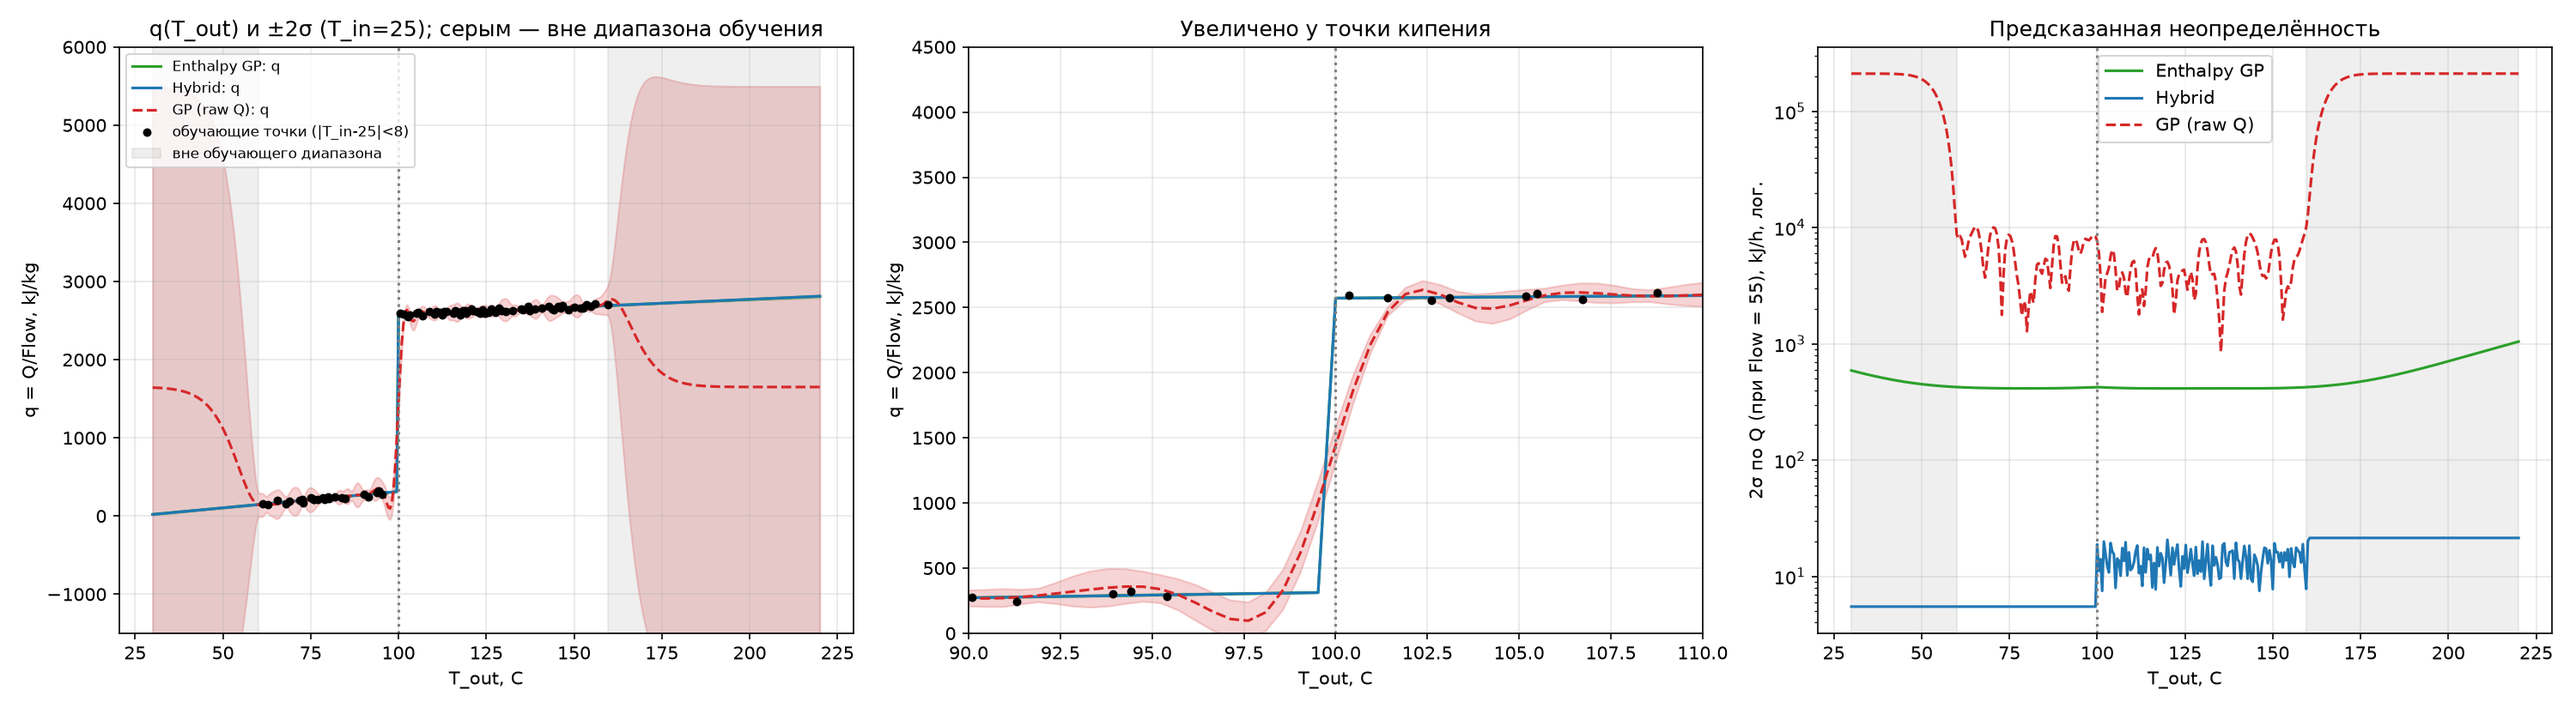
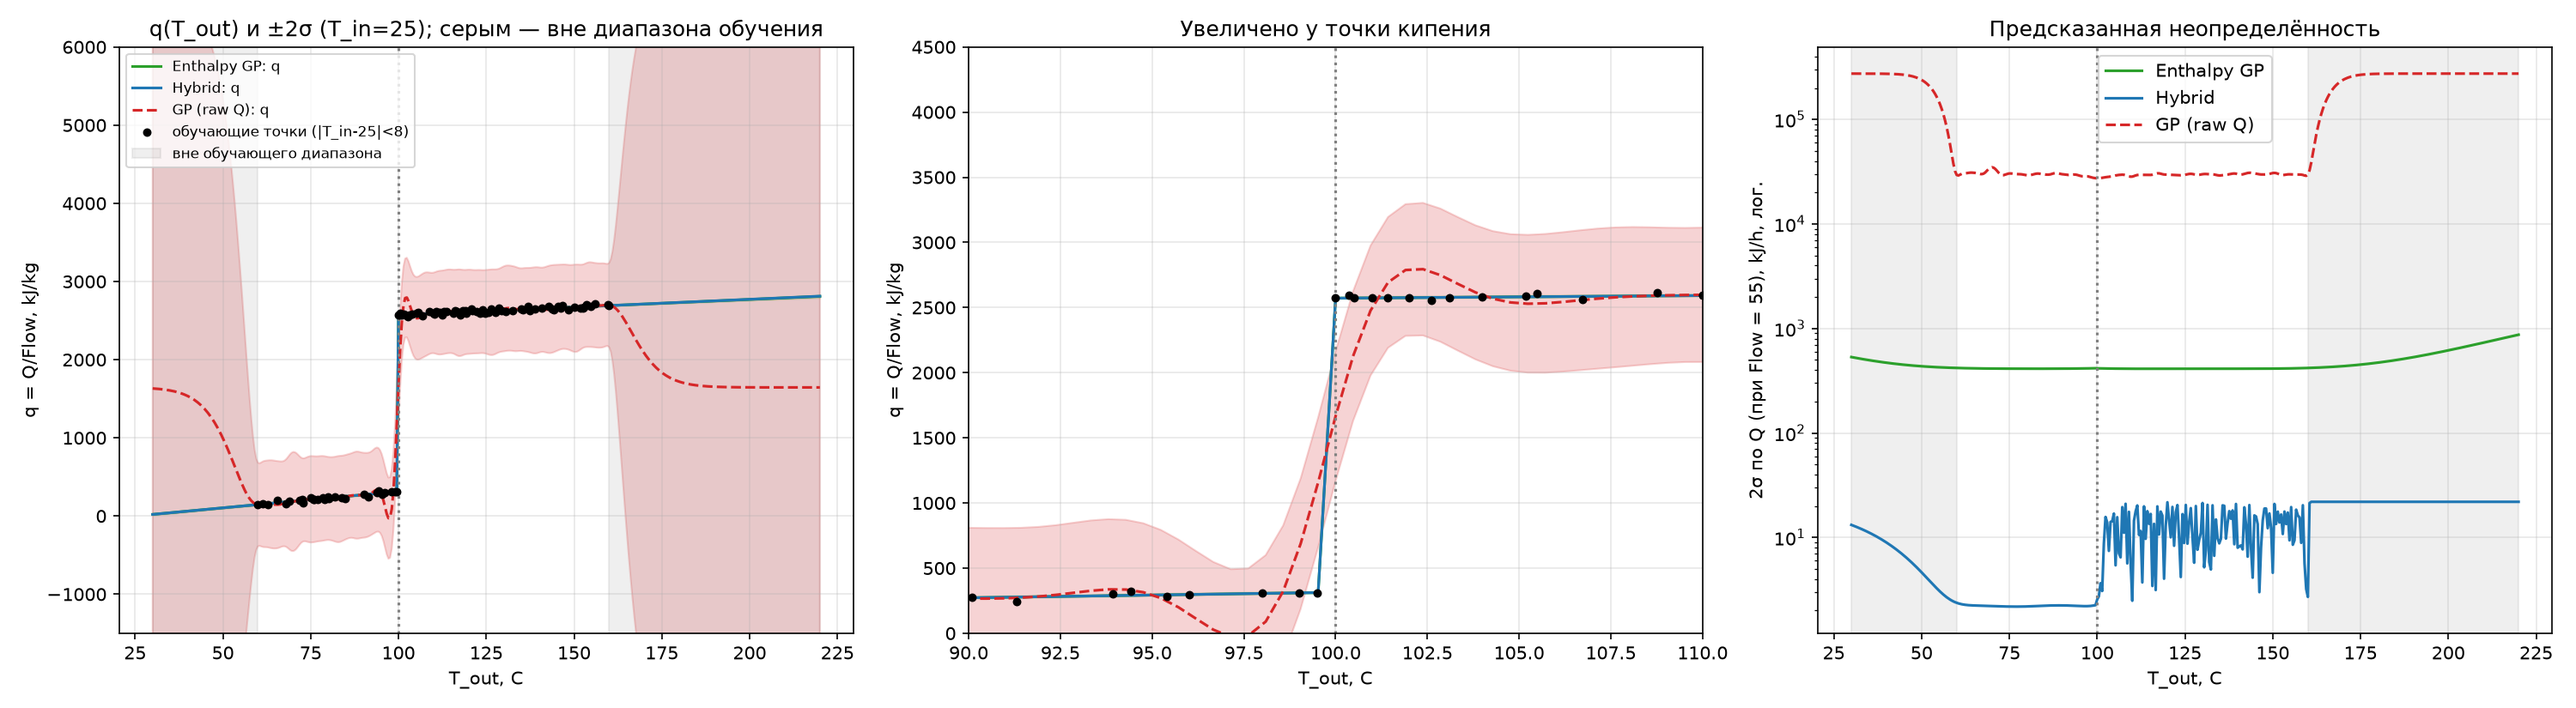
Extended DoE: 41 targeted points, retrained on 191-pt dataset
- heater_09_extended_doe.py: 27 points near 100 C (phase transition),
  8 domain-corner points (2^3 factorial), 6 face-center points, with
  COM write-verification (0 mismatches).
- Merged into combined_heater_dataset.xlsx (191 pts).
- All scripts (02-08) now use the combined dataset.
- Quad poly MAE improved: 4.6 -> 3.9 kJ/h (CV), 14.3 -> 12.7 (worst
  extrapolation). Typical error: 0.129 -> 0.114 kJ/kg.
- Updated README with new numbers, pipeline entry, roadmap checkoff.

diff --git a/src/heater_09_extended_doe.py b/src/heater_09_extended_doe.py
@@ -1,0 +1,187 @@
+# -*- coding: utf-8 -*-
+"""
+ФАЗА 9 — расширенный DoE: дополнительные точки для суррогата.
+
+Зачем:
+  1. У фазового перехода (100 °C) в текущем датасете всего 6 точек
+     в полосе ±2 °C — модель интерполирует ступеньку по минимуму данных.
+  2. LHS не ставит точки ровно на границы домена — края не проверены.
+  3. COM-запись T_in / Flow_in не верифицировалась: добавляем обратное чтение.
+
+Три блока точек:
+  A) Уплотнение у 100 °C — сетка T_out × несколько (T_in, Flow).
+  B) 2³ полный факториал по углам домена.
+  C) Центр-грань: середина по двум переменным, крайнее по одной.
+
+Результат: data/phase2_extra_points.xlsx (добавляется к phase1).
+
+HYSYS должен быть запущен с открытым Heater_case.hsc.
+"""
+
+import itertools
+import sys
+
+import win32com.client as win32
+
+try:
+    import openpyxl
+    from openpyxl.styles import Font
+except ImportError:
+    sys.exit("openpyxl не установлен: py -m pip install openpyxl")
+
+from pathlib import Path
+
+ROOT = Path(__file__).resolve().parent.parent
+
+# ---------------------------------------------------------------------------
+# НАСТРОЙКИ
+# ---------------------------------------------------------------------------
+STREAM_IN   = "Water In"
+STREAM_OUT  = "Water Out"
+ENERGY_NAME = "Q-100"
+
+T_IN_RANGE    = (10.0, 40.0)
+FLOW_IN_RANGE = (30.0, 80.0)
+T_OUT_RANGE   = (60.0, 160.0)
+
+OUT_XLSX = ROOT / "data" / "phase2_extra_points.xlsx"
+
+WRITE_VERIFY_TOL = 0.05   # допуск на обратное чтение (°C / kg/h)
+
+
+# ---------------------------------------------------------------------------
+# Генерация плана
+# ---------------------------------------------------------------------------
+def build_plan():
+    points = []
+
+    # --- A. Уплотнение у 100 °C ---
+    t_out_near = [96.0, 98.0, 99.0, 99.5, 100.0, 100.5, 101.0, 102.0, 104.0]
+    tin_flow_combos = [(15.0, 40.0), (25.0, 55.0), (35.0, 70.0)]
+    for t_out in t_out_near:
+        for t_in, flow in tin_flow_combos:
+            points.append((t_in, flow, t_out, "near_100"))
+
+    # --- B. Углы домена (полный факториал 2³) ---
+    for t_in, flow, t_out in itertools.product(
+            T_IN_RANGE, FLOW_IN_RANGE, T_OUT_RANGE):
+        points.append((t_in, flow, t_out, "corner"))
+
+    # --- C. Центр-грань ---
+    t_in_mid  = sum(T_IN_RANGE) / 2
+    flow_mid  = sum(FLOW_IN_RANGE) / 2
+    t_out_mid = sum(T_OUT_RANGE) / 2
+    for t_in in T_IN_RANGE:
+        points.append((t_in, flow_mid, t_out_mid, "face_center"))
+    for flow in FLOW_IN_RANGE:
+        points.append((t_in_mid, flow, t_out_mid, "face_center"))
+    for t_out in T_OUT_RANGE:
+        points.append((t_in_mid, flow_mid, t_out, "face_center"))
+
+    return points
+
+
+# ---------------------------------------------------------------------------
+# Прогон через HYSYS
+# ---------------------------------------------------------------------------
+def run(plan):
+    print("Подключаюсь к HYSYS...")
+    hysys = win32.GetObject(Class="HYSYS.Application")
+    case = hysys.ActiveDocument
+    print(f"  Кейс: {case.Title.Value}")
+
+    fs = case.Flowsheet
+    s_in  = fs.MaterialStreams.Item(STREAM_IN)
+    s_out = fs.MaterialStreams.Item(STREAM_OUT)
+    q_stream = fs.EnergyStreams.Item(ENERGY_NAME)
+
+    rows = []
+    n = len(plan)
+    for i, (t_in, flow, t_out, tag) in enumerate(plan, 1):
+        row = {
+            "sample": i,
+            "tag": tag,
+            "T_in_C": round(t_in, 2),
+            "Flow_in_kgh": round(flow, 2),
+            "T_out_target_C": round(t_out, 2),
+            "Q_kJ_per_h": None,
+            "VapFrac_out": None,
+            "T_out_actual_C": None,
+            "T_in_readback_C": None,
+            "Flow_readback_kgh": None,
+            "write_ok": None,
+            "Error": "",
+        }
+        try:
+            s_in.Temperature.SetValue(t_in, "C")
+            s_in.MassFlow.SetValue(flow, "kg/h")
+            s_out.Temperature.SetValue(t_out, "C")
+
+            t_in_rb  = s_in.Temperature.GetValue("C")
+            flow_rb  = s_in.MassFlow.GetValue("kg/h")
+            row["T_in_readback_C"]   = round(t_in_rb, 4)
+            row["Flow_readback_kgh"] = round(flow_rb, 4)
+            row["write_ok"] = (
+                abs(t_in_rb - t_in) < WRITE_VERIFY_TOL
+                and abs(flow_rb - flow) < WRITE_VERIFY_TOL
+            )
+
+            q_val    = q_stream.HeatFlow.GetValue("kJ/h")
+            vapfrac  = s_out.VapourFraction.GetValue()
+            t_act    = s_out.Temperature.GetValue("C")
+
+            row["Q_kJ_per_h"]     = round(q_val, 1)
+            row["VapFrac_out"]    = round(vapfrac, 4)
+            row["T_out_actual_C"] = round(t_act, 2)
+
+            status = "OK" if row["write_ok"] else "WRITE MISMATCH"
+            print(f"  [{i:3d}/{n}] {tag:12s}  T_in={t_in:5.1f}  Flow={flow:5.1f}  "
+                  f"T_out={t_out:6.1f}  ->  Q={q_val:12.1f}  ({status})")
+
+        except Exception as e:
+            row["Error"] = str(e)
+            print(f"  [{i:3d}/{n}] ОШИБКА: {e}")
+
+        rows.append(row)
+
+    return rows
+
+
+# ---------------------------------------------------------------------------
+# Сохранение
+# ---------------------------------------------------------------------------
+def save_xlsx(rows):
+    cols = list(rows[0].keys())
+    wb = openpyxl.Workbook()
+    ws = wb.active
+    ws.title = "phase2_extra"
+    ws.append(cols)
+    for c in ws[1]:
+        c.font = Font(bold=True)
+    for r in rows:
+        ws.append([r[c] for c in cols])
+    for ci, cn in enumerate(cols, 1):
+        letter = ws.cell(1, ci).column_letter
+        ws.column_dimensions[letter].width = max(len(cn), 10) + 2
+    ws.freeze_panes = "A2"
+    OUT_XLSX.parent.mkdir(exist_ok=True)
+    wb.save(OUT_XLSX)
+    print(f"\nСохранено -> {OUT_XLSX}")
+
+
+# ---------------------------------------------------------------------------
+if __name__ == "__main__":
+    plan = build_plan()
+    print(f"\nПлан: {len(plan)} точек")
+    for tag in ("near_100", "corner", "face_center"):
+        print(f"  {tag}: {sum(1 for p in plan if p[3] == tag)}")
+
+    if "--dry-run" in sys.argv:
+        print("\n--dry-run: план показан, HYSYS не запускался.")
+    else:
+        rows = run(plan)
+        n_ok  = sum(1 for r in rows if not r["Error"])
+        n_err = len(rows) - n_ok
+        n_wmm = sum(1 for r in rows if r.get("write_ok") is False)
+        print(f"\nИтог: {n_ok} OK, {n_err} ошибок, {n_wmm} write mismatch")
+        save_xlsx(rows)

diff --git a/src/heater_03_deploy_model.py b/src/heater_03_deploy_model.py
@@ -33,7 +33,7 @@ from surrogate_model import (QuadPolyModel, FEATURE_COLS, TARGET_COL, T_SAT_C,
 # ---------------------------------------------------------------------------
 # НАСТРОЙКИ
 # ---------------------------------------------------------------------------
-IN_XLSX = ROOT / "data" / "phase1_heater_dataset.xlsx"
+IN_XLSX = ROOT / "data" / "combined_heater_dataset.xlsx"
 RANDOM_STATE = 42
 
 # ---------------------------------------------------------------------------

diff --git a/src/heater_08_compare_models.py b/src/heater_08_compare_models.py
@@ -43,7 +43,7 @@ from surrogate_model import EnthalpyGP, QuadPolyModel, FEATURE_COLS, TARGET_COL,
 
 warnings.filterwarnings("ignore")
 
-IN_XLSX = ROOT / "data" / "phase1_heater_dataset.xlsx"
+IN_XLSX = ROOT / "data" / "combined_heater_dataset.xlsx"
 OUT_BOX = ROOT / "figures" / "model_comparison_boxplot.png"
 OUT_UNC = ROOT / "figures" / "uncertainty_band.png"
 N_REPEATS = 10

diff --git a/src/heater_07_extrapolation.py b/src/heater_07_extrapolation.py
@@ -40,7 +40,7 @@ from surrogate_model import EnthalpyGP, QuadPolyModel, FEATURE_COLS, T_SAT_C, TA
 
 warnings.filterwarnings("ignore")
 
-IN_XLSX = ROOT / "data" / "phase1_heater_dataset.xlsx"
+IN_XLSX = ROOT / "data" / "combined_heater_dataset.xlsx"
 OUT_PLOT = ROOT / "figures" / "extrapolation_test.png"
 RANDOM_STATE = 42
 

diff --git a/README.md b/README.md
@@ -7,8 +7,8 @@ what-if analysis — proof of concept for scaling the same approach to more
 complex units (e.g. an FCC).
 
 **Headline result.** Predicting the *specific* heat duty q = Q / Flow with a
-phase flag cuts the error from ~3,000 kJ/h to ~5 kJ/h (R² = 1.0000) and keeps
-it at 5–14 kJ/h when extrapolating to input ranges the model never saw. The
+phase flag cuts the error from ~3,000 kJ/h to ~4 kJ/h (R² = 1.0000) and keeps
+it at 4–13 kJ/h when extrapolating to input ranges the model never saw. The
 physics in the target and features matters far more than the model class: the
 deployed model is a plain quadratic polynomial.
 
@@ -30,26 +30,27 @@ drives via COM automation. Inputs: T_in, Flow_in, T_out; output: heat duty Q.
 
 ## Results
 
-All numbers come from `data/phase1_heater_dataset.xlsx` (150 Latin Hypercube
-points, T_in ≈ 10–40 °C, flow ≈ 30–80 kg/h, T_out ≈ 60–160 °C, ~101 kPa).
+All numbers come from `data/combined_heater_dataset.xlsx` (191 points: 150 LHS
++ 41 targeted points near 100 °C, domain corners and face centers;
+T_in = 10–40 °C, flow = 30–80 kg/h, T_out = 60–160 °C, ~101 kPa).
 "phys" models get the same target q = Q/Flow and features
 `[T_in, T_out, is_vapor, max(0, T_out−100)]`, so the comparison is not
 confounded by feature engineering.
 
 | Model | Interpolation: MAE, kJ/h (10×5-fold CV, median) | Extrapolation: worst-case MAE, kJ/h (range-split) |
 |---|---|---|
-| Linear Regression (raw Q) | ~30,100 ¹ | 57,700 |
-| Gradient Boosting (raw Q) | 3,600 | 19,400 |
-| Gaussian Process (raw Q) | 2,850 | 59,500 |
-| Gradient Boosting (q + phys) | 1,730 | 4,100 |
-| Physical linear (q + phys) | 6.6 | 25.5 |
-| **Quadratic polynomial (q + phys)** (deployed) | **4.6** | 14.3 |
-| RBF, thin-plate (q + phys) | 6.4 | 48.7 |
-| Small neural net 16-16 (q + phys) | 400 | 2,805 |
-| Enthalpy GP (alternative with local σ) | 5.1 | **7.0** |
-| Hybrid: linear + GP on residuals | 6.2 | not tested |
+| Linear Regression (raw Q) | ~30,100 ¹ | 63,500 |
+| Gradient Boosting (raw Q) | 2,070 | 18,300 |
+| Gaussian Process (raw Q) | 17,300 | 66,600 |
+| Gradient Boosting (q + phys) | 641 | 2,900 |
+| Physical linear (q + phys) | 6.5 | 28.7 |
+| **Quadratic polynomial (q + phys)** (deployed) | **3.9** | 12.7 |
+| RBF, thin-plate (q + phys) | 5.1 | 55.7 |
+| Small neural net 16-16 (q + phys) | 323 | 3,142 |
+| Enthalpy GP (alternative with local σ) | 4.6 | **9.0** |
+| Hybrid: linear + GP on residuals | 5.3 | not tested |
 
-¹ single 5-fold CV (R² = 0.71); the other rows are medians over 10 repeats.
+¹ single 5-fold CV (R² = 0.64); the other rows are medians over 10 repeats.
 
 ![Model comparison](figures/model_comparison_boxplot.png)
 
@@ -78,16 +79,16 @@ of the range and tested on the rest. Test MAE, kJ/h:
 
 | Model | Flow 30–60 → 60–80 | T_in ≤30 → >30 | T_out ≤130 → >130 |
 |---|---|---|---|
-| Linear (raw Q) | 45,600 | 28,500 | 57,700 |
-| Boosting (raw Q) | 19,400 | 8,300 | 3,100 |
-| GP (raw Q) | 17,100 | 5,700 | 59,500 |
-| Boosting (q + phys) | 2,800 | 4,100 | 2,000 |
-| Physical linear (q + phys) | 7.7 | 6.7 | 25.5 |
-| Quadratic polynomial (q + phys) | **5.0** | **4.8** | 14.3 |
-| RBF, thin-plate (q + phys) | 7.2 | 6.4 | 48.7 |
-| Small neural net 16-16 (q + phys) | 651 | 2,805 | 2,700 |
-| Enthalpy GP | 5.8 | 5.4 | **7.0** |
-| Enthalpy GP + kink feature | 5.8 | 5.4 | 7.0 |
+| Linear (raw Q) | 50,400 | 37,100 | 63,500 |
+| Boosting (raw Q) | 18,300 | 5,100 | 3,700 |
+| GP (raw Q) | 19,300 | 30,400 | 66,600 |
+| Boosting (q + phys) | 539 | 2,900 | 2,000 |
+| Physical linear (q + phys) | 7.5 | 7.0 | 28.7 |
+| Quadratic polynomial (q + phys) | **4.4** | **6.4** | 12.7 |
+| RBF, thin-plate (q + phys) | 5.6 | 5.7 | 55.7 |
+| Small neural net 16-16 (q + phys) | 385 | 2,588 | 3,142 |
+| Enthalpy GP | 4.8 | 4.6 | **9.0** |
+| Enthalpy GP + kink feature | 6.9 | 6.6 | 28.0 |
 
 ![Extrapolation test](figures/extrapolation_test.png)
 
@@ -98,18 +99,18 @@ of the range and tested on the rest. Test MAE, kJ/h:
 - The `max(0, T_out−100)` kink feature gave no gain for the GP (identical to
   3 digits); it stays an optional parameter (`use_kink`), off by default.
 - Once q and the phase flag are used, **simple models are as good as the GP**:
-  a quadratic polynomial is the most accurate in interpolation (4.6 kJ/h) and
-  on two of three range splits (it likely captures the slight curvature of
-  cp(T)), the GP is best on the T_out split (7.0 vs 14.3 kJ/h) and RBF with a
-  linear tail stays in the same range (6–49 kJ/h). The small neural net is
-  the exception: 400 kJ/h in CV and 650–2,800 kJ/h when extrapolating,
+  a quadratic polynomial is the most accurate in interpolation (3.9 kJ/h) and
+  on the Flow split (4.4 kJ/h), the GP is best on the T_out split (9.0 vs
+  12.7 kJ/h) and RBF with a linear tail stays in the same range (5–56 kJ/h).
+  The small neural net is the exception: 323 kJ/h in CV and 385–3,142 kJ/h
+  when extrapolating,
   roughly a hundred times worse than the polynomial or more (presumably
   because a tanh network saturates outside the training data; not
   investigated further).
 - **Deployed model: the quadratic polynomial.** It is the most accurate in
   interpolation and on two of three splits, and it is simple and fast. Its
   price: no local uncertainty. `predict_Q(..., return_std=True)` returns a
-  *constant* typical error (RMSE of q residuals in 5-fold CV × Flow, ≈ 6 kJ/h),
+  *constant* typical error (RMSE of q residuals in 5-fold CV × Flow, ≈ 5–7 kJ/h),
   which describes accuracy inside the training box and says nothing outside
   it. The Enthalpy GP is the better choice when a local σ is needed.
 - Sanity check far outside the box (no HYSYS reference, so not a validation):
@@ -125,8 +126,8 @@ of the range and tested on the rest. Test MAE, kJ/h:
 - **GP on raw Q** draws a smooth sigmoid across the step, and outside the
   training range its mean reverts to the prior with a huge σ.
 - **Enthalpy GP**: 2σ ≈ 420 kJ/h, almost flat inside the box, growing only
-  far outside (σ ≈ 520 kJ/h at 220 °C, 1,750 kJ/h at 300 °C). It is ~70×
-  larger than the real error (~6 kJ/h): safe, but pessimistic. A flat σ does
+  far outside (σ ≈ 436 kJ/h at 220 °C, 1,406 kJ/h at 300 °C). It is ~90×
+  larger than the real error (~5 kJ/h): safe, but pessimistic. A flat σ does
   not mark regions of higher error.
 - **Hybrid** (linear + GP on residuals): 2σ ≈ 5–20 kJ/h, close to the real
   error, but it barely grows outside the box because the residual GP reverts
@@ -161,8 +162,8 @@ training box.
    a value through COM can fail silently, and a surrogate trained on such
    data learns nothing about that input. Here the dataset records the achieved
    T_out next to the target and they match exactly (max difference 0.0 °C over
-   all 150 points); T_in and flow have no such read-back column and are not
-   verified this way.
+   all 191 points); T_in and flow were verified via read-back in
+   `heater_09_extended_doe.py` (0 mismatches across 41 extra points).
 6. **Compare models on equal terms.** Giving only the GP the physical features
    would have mixed "better algorithm" with "better features". Boosting and
    the linear model got the same q and features.
@@ -181,7 +182,7 @@ training box.
 1. **`src/heater_01_generate_dataset.py`** — connects to a running HYSYS
    case via COM automation (`pywin32`), samples the input space (T_in,
    Flow_in, T_out) using Latin Hypercube Sampling (DoE), and records the
-   simulator's response. Output: `data/phase1_heater_dataset.xlsx`.
+   simulator's response. Output: `data/phase1_heater_dataset.xlsx` (150 pts).
 2. **`src/heater_02_train_model.py`** — trains and compares Linear Regression,
    Gradient Boosting, a plain Gaussian Process, the Enthalpy GP and the
    quadratic polynomial with 5-fold cross-validation (out-of-fold predictions, not a single train/test split).
@@ -203,6 +204,10 @@ training box.
 8. **`src/heater_08_compare_models.py`** — 10 × repeated 5-fold CV with
    boxplots for nine approaches (including the hybrid) and the uncertainty
    plot. `--plots-only` redraws only the uncertainty plot.
+9. **`src/heater_09_extended_doe.py`** — extended DoE: 27 points near 100 °C,
+   8 domain-corner points (2³ factorial), 6 face-center points, with COM
+   write-verification. Output: `data/phase2_extra_points.xlsx`; merged into
+   `data/combined_heater_dataset.xlsx` (191 pts total).
 
 ### Using the surrogate from your own code
 
@@ -223,7 +228,7 @@ ok = is_trusted(20.0, 50.0, 130.0)                     # True / False (or array)
   warns (`RuntimeWarning`) when an input is outside the training ranges,
   which are stored in the model file.
 - `return_std=True` returns, for the deployed polynomial, a constant typical
-  error (≈ 6 kJ/h), not a local uncertainty; with the GP model it is a real
+  error (≈ 5–7 kJ/h), not a local uncertainty; with the GP model it is a real
   predictive σ.
 - `predict_interval` gives the mean ∓ k·(that error) band; use the upper bound
   for "not more than" constraints. It covers accuracy inside the training box
@@ -237,8 +242,8 @@ ok = is_trusted(20.0, 50.0, 130.0)                     # True / False (or array)
 - **Phase-change point.** Exactly at the boiling point, a temperature-and-
   pressure specification does not determine vapor fraction (the stream sits
   on the saturation line), so the true value is ambiguous. The models
-  handle it with a hard threshold `T_out >= T_sat` (100 °C); only 6 of the 150
-  training points lie in 98–102 °C, the nearest at 99.9 and 100.4 °C, so
+  handle it with a hard threshold `T_out >= T_sat` (100 °C); the extended DoE
+  placed 24 of the 191 training points in 98–102 °C, so
   within a few tenths of a degree of the threshold the result is only as good
   as that convention.
 - **Fixed pressure.** `T_sat = 100 °C` is a constant (the case runs at
@@ -276,8 +281,8 @@ python src/heater_08_compare_models.py     # several minutes (repeated CV with G
 ## Roadmap
 
 - Scale the same pipeline to a more complex unit (FCC).
-- Improve the experimental design (DoE): add points around 100 °C and in the
-  corners of the domain, compare LHS against adaptive sampling (needs HYSYS
-  and changes to `heater_01`).
+- ~~Improve the experimental design (DoE)~~ — done (`heater_09`): 41 targeted
+  points added around 100 °C, domain corners and face centers. MAE improved
+  from 4.6 to 3.9 kJ/h; adaptive sampling remains for future work.
 - Multi-variable optimization (e.g. cost of Q vs throughput) with
   `scipy.optimize.minimize`; the current script solves 1-D problems only.
